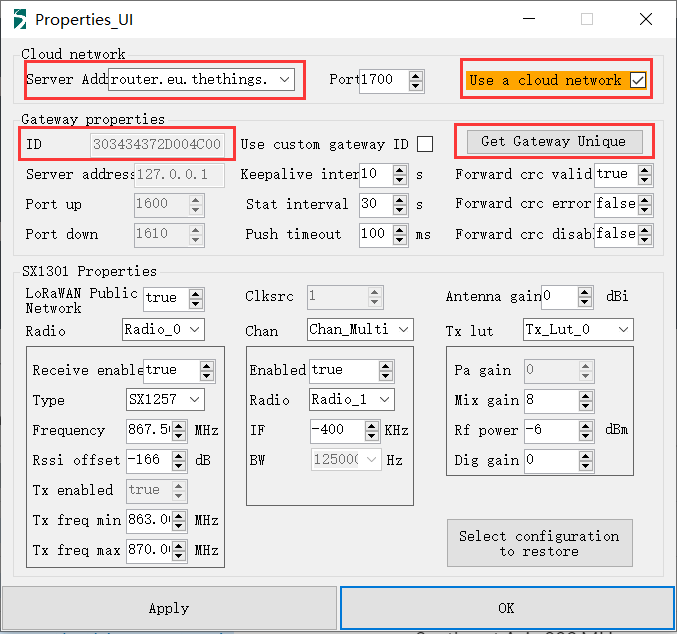
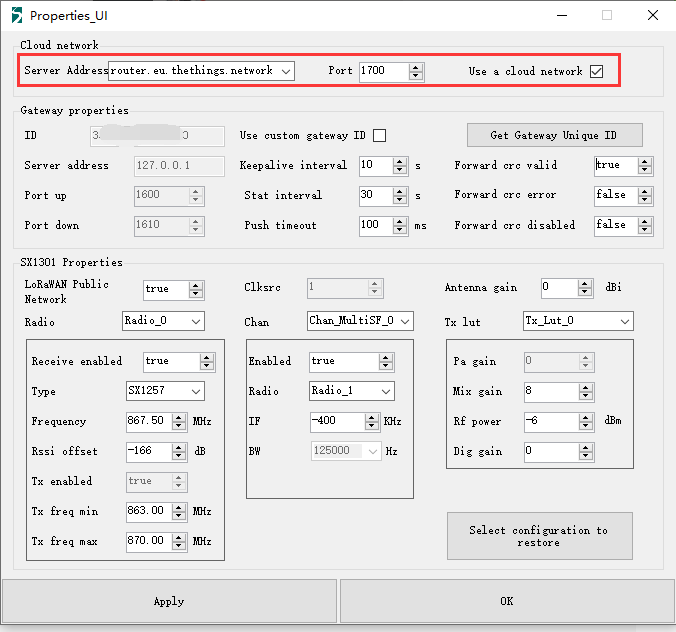
Update HT-M01 documents

diff --git a/en/source/gateway/ht-m01/connect_to_server.md b/en/source/gateway/ht-m01/connect_to_server.md
@@ -1,67 +1,90 @@
-# How to connect HT-M01 to TTN(The-Things-Network)
+# Connect HT-M01 to a LoRa Server
 
--------------------------------------------------------------------------------------------------------
+## Summary
 
-## CONTENT
+This article aims to describe how to connect [HT-M01 Gateway](https://heltec.org/project/ht-m01) to a LoRa server, such as [TTN](https://www.thethingsnetwork.org/), [ChripStack](https://www.chirpstack.io/), which facilitates secondary development and rapid deployment of LoRa devices.
 
-1. [Overview](#overview)
-2. [Preparation](#preparation)
-3. [Connect to TTN](#connect-to-ttn)
-
-
-
-## Overview
-
-		The Things Network, commonly known as TTN, is an open source infrastructure aiming at providing a free LoRaWAN network cover. 
-
-		This article aims to describe how to connect [HT-M01 Gateway](https://heltec.org/project/ht-m01) to TTN, which facilitates secondary development and rapid deployment of LoRa devices.
-
-## Preparation
-- First we need a TTN registered account, if there is no account, please click [here](https://console.thethingsnetwork.org/), enter the TTN official website and register your account.
-- Connect the HT-M01 to a Raspberry Pi (Linux) or Windows computer.
+Before all operation, make sure the HT-M01 is runing well with a Raspberry Pi (Linux) or Windows computer. If not, please refer to this [HT-M01 Quick Start](./quick_start.md) document.
 
 ## Connect to TTN
 
-Select ```Gateway``` in the TTN's console.
+### Register a LoRa gateway in TTN
 
-<img src="img\how_to_connect_ht-m01_to_ttn-the-things-network\01.png">
+Create and active an account in TTN. Select ```Gateway``` in the [console](https://console.thethingsnetwork.org/) page.
+
+![](img/connect_to_server/01.png)
 
 Fill in the HT-M01 information as shown below and complete the addition.
 
-<img src="img\how_to_connect_ht-m01_to_ttn-the-things-network\02.png">
+![](img/connect_to_server/02.png)
 
-- If you are using packet_forwarder_UI in Windows® and forwarding the message to the TTN, you need to:
+- **Gateway EUI** -- The unique ID of HT-M01 gateway;
+- **I'm using the legacy packet forwarder** -- Must select this;
+- **Frequency Plan** -- Must matach the LoRa band configuration (`global_conf.json`) in HT-M01.
+- **Router** -- Must use the default router allocated by TTN system.
 
-1. Select the frequency band.
-2. Check the box to the contents.
-3. Click OK to start forwarding.
-
-<img src="img\how_to_connect_ht-m01_to_ttn-the-things-network\03.png">
-
-- If you are using packet_forwarder forwarding in Raspberry Pi (Linux)
-  The global_conf file needs a few changes. To edit it type:
+``` Tip:: That four ponit are the key to success connection with TTN.
 
 ```
+
+
+
+### Connecting
+
+In the HT-M01 gateway, only need config the server address and port. The router addresses for different region:
+
+[https://www.thethingsnetwork.org/docs/gateways/packet-forwarder/semtech-udp.html#router-addresses](https://www.thethingsnetwork.org/docs/gateways/packet-forwarder/semtech-udp.html#router-addresses)
+
+#### HT-M01 in Linux (Raspberry Pi)
+
+Fix parameters in `global_conf.json`:
+
+```shell
   nano /home/pi/lora/packet_forwarder/lora_pkt_fwd/global_conf.json/global_conf.json
 ```
-  At the end of the file make these changes:
+
+  At the end of the `global_conf.json`, make these changes:
 
 
-  ```
-  “gateway_ID”: “YOUR_GATEWAY_ID”,
-  “server_address”: “router.eu.thethings.network”,
+  ```json
+  “gateway_ID”: “XXXXXXXXXXXXXXXX”, /*Your gateway ID, 16 characters*/
+  “server_address”: “router.eu.thethings.network”, /*The router addresses need matach your region*/
   “serv_port_up”: 1700,
   “serv_port_down”: 1700,
   ```
 
-  Where **"YOUR_GATEWAY_ID"** fills in the Gateway ID obtained when configuring the Raspberry Pi.
+`ctrl + O` to save and `ctrl + X` to exit, and restart the service in Raspberry Pi:
 
-  Restart the forwarding service after the change is complete.
-
-  Going back to TTN, you will get this:
-
-<img src="img\how_to_connect_ht-m01_to_ttn-the-things-network\04.png">
+```shell
+sudo systemctl restart lrgateway
+```
 
 
 
-At this point, the HT-M01 has successfully connected to the TTN.
+#### HT-M01 in Windows
+
+Select `Use a cloud network`, and fill in correct `server address`, keep `Port` default 1700.
+
+![](img/connect_to_server/03.png)
+
+Click `OK` and `Start Packet Forwarder`.
+
+![](img/connect_to_server/05.png)
+
+&nbsp;
+
+Now go back to TTN, it is runing:
+
+![](img/connect_to_server/04.png)
+
+&nbsp;
+
+## Connect to ChripStack server
+
+[ChripStack](https://www.chirpstack.io/) is the most popular LoRa server open source project, widely used in many fields, and also the best choise for a private LoRa server.
+
+- ChripStack Installation guide: [https://www.chirpstack.io/overview/](https://www.chirpstack.io/overview/)
+- ChripStack support forum: [https://forum.chirpstack.io/](https://forum.chirpstack.io/)
+
+
+

diff --git a/en/source/gateway/ht-m01/qucik_start.md b/en/source/gateway/ht-m01/qucik_start.md
@@ -85,11 +85,17 @@ sudo cp -f /home/pi/lora/picolorasdk/global_conf_CN470.json /home/pi/lora/picoGW
 #Put the configuration file on the specified path
 ```
 
-Confirm Installation
+Whether it is in SPI or USB mode, when `./install.sh` is executed, if everything is normal, the Unique ID of the current gateway will be printed.
+
+![](img/quick_start/08.png)
+
+### Confirm Installation
 
 Run `sudo systemctl status lrgateway` in Raspberry Pi, if all goes well, the service is running:
 
 ![](img/quick_start/03.png)
+
+&nbsp;
 
 ## Use HT-M01 with Windows<sup>®</sup>
 
@@ -99,48 +105,24 @@ Install [PicoGW UI](http://resource.heltec.cn/download/HT-M01/PicoGW_UI_Release_
 
 ![](img/quick_start/04.png)
 
-## Connect to TTN
+Open PicoGW_UI and choose suitable region and click `Save my choice`. The default region didn't cover your location? please refer to this document.
 
-Select ```Gateway``` in the TTN's console.
+![](img/quick_start/05.png)
 
-<img src="img\how_to_connect_ht-m01_to_ttn-the-things-network\01.png">
+Choose `Packet Forwarder`.
 
-Fill in the HT-M01 information as shown below and complete the addition.
+![](img/quick_start/06.png)
 
-<img src="img\how_to_connect_ht-m01_to_ttn-the-things-network\02.png">
+### Configuration PicoGW Tools
 
-- If you are using packet_forwarder_UI in Windows® and forwarding the message to the TTN, you need to:
+![](img/quick_start/07.png)
 
-1. Select the frequency band.
-2. Check the box to the contents.
-3. Click OK to start forwarding.
+Click `Global Conf` to open the `Properties_UI` window, the parameters in this window are relative to the `global_conf.json` in `C:\Users\user name\AppData\Roaming\Semtech\PicoGW_UI` path. We just need pay attention to this three parts, others keep default.
 
-<img src="img\how_to_connect_ht-m01_to_ttn-the-things-network\03.png">
+1.  **Cloud network/Server Address** and **Port** -- This part is used for TTN only;
+2. **Gateway properties/Server Address**, **Port up** and **Port down** -- This part is used for a custom server, it can be cloud server, private or local server, such as [ChripStack](https://www.chirpstack.io/);
+3. **Get Gateway Unique ID** -- will generate a unique ID for your HT-M01, it will be used while register a gateway in the LoRa server.
 
-- If you are using packet_forwarder forwarding in Raspberry Pi (Linux)
-  The global_conf file needs a few changes. To edit it type:
+``` Note:: the Unique ID generated by PicoGW UI and Raspberry Pi are different. Because the Unique ID from PicoGW UI is relative to HT-M01's STM32 chip. Raspberry Pi use self's ethernet Mac address.
 
 ```
-  nano /home/pi/lora/packet_forwarder/lora_pkt_fwd/global_conf.json/global_conf.json
-```
-  At the end of the file make these changes:
-
-
-  ```
-  “gateway_ID”: “YOUR_GATEWAY_ID”,
-  “server_address”: “router.eu.thethings.network”,
-  “serv_port_up”: 1700,
-  “serv_port_down”: 1700,
-  ```
-
-  Where **"YOUR_GATEWAY_ID"** fills in the Gateway ID obtained when configuring the Raspberry Pi.
-
-  Restart the forwarding service after the change is complete.
-
-  Going back to TTN, you will get this:
-
-<img src="img\how_to_connect_ht-m01_to_ttn-the-things-network\04.png">
-
-
-
-At this point, the HT-M01 has successfully connected to the TTN.
